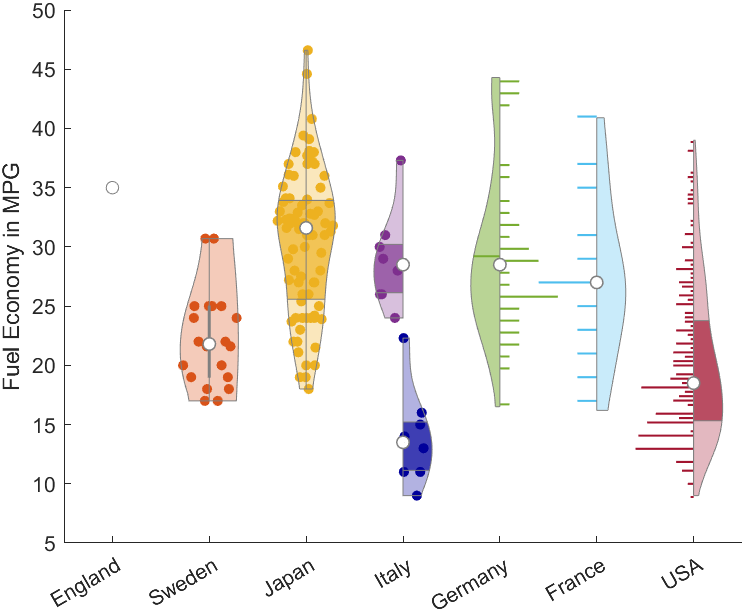
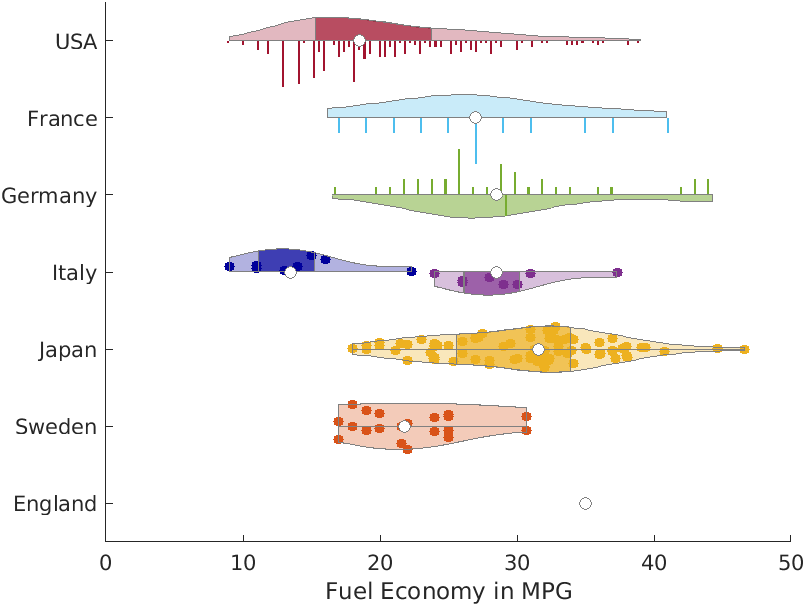
adjusted README and readme_figures. Small code snippet works now on its own.

diff --git a/readme_figures.m b/readme_figures.m
@@ -11,48 +11,53 @@ vs = violinplot(MPG, Origin);
 ylabel('Fuel Economy in MPG');
 xlim([0.5, 7.5]);
 
-set(gcf,"Units","pixels","Position",[100 100 560 420])
+set(gcf,'Units','pixels','Position',[100 100 560 420])
 
 % save results
-exportgraphics(gcf,"example.png")
+exportgraphics(gcf,'example.png')
 
 %% figure 2
 close all
 clear vs
 
-C = colormap("jet");
+C = colormap('jet');
 
 grouporder={'England','Sweden','Japan','Italy','Germany','France','USA'};
 
 % England (just a dot)
-vs = Violin({MPG(strcmp(Origin,'England'))},1);
+vs = Violin({MPG(strcmp(Origin,'England'))},1,'Orientation','horizontal');
 
 % Sweden (different Bandwidths)
 vs = Violin({MPG(strcmp(Origin,'Sweden'))},2,...
-    "HalfViolin","left",...
-    "Bandwidth",3);
+    'HalfViolin','left',...
+    'Bandwidth',3,...
+    'Orientation','horizontal');
 
 vs = Violin({MPG(strcmp(Origin,'Sweden'))},2,...
-    "HalfViolin","right",...
-    "Bandwidth",12);
+    'HalfViolin','right',...
+    'Bandwidth',12,...
+    'Orientation','horizontal');
 
 % Japan (show quartiles)
 vs = Violin({MPG(strcmp(Origin,'Japan'))},3,...
     'QuartileStyle','shadow',... % boxplot, none
-    'ShowBox',true);
+    'ShowBox',true,...
+    'Orientation','horizontal');
 
 % Italy left: standard
 vs = Violin({MPG(strcmp(Origin,'Italy'))},4,...
     'QuartileStyle','shadow',... % boxplot, none
     'ShowBox',true,...
-    "HalfViolin","left");
+    'HalfViolin','left',...
+    'Orientation','horizontal');
 
 % Italy right: change color, offset
 vs = Violin({MPG(strcmp(Origin,'Italy'))-15},4,...
     'QuartileStyle','shadow',... % boxplot, none
     'ShowBox',true,...
-    "HalfViolin","right",...
-    "ViolinColor",{C(7,:)});
+    'HalfViolin','right',...
+    'ViolinColor',{C(7,:)},...
+    'Orientation','horizontal');
 
 
 % Germany left: standard
@@ -60,37 +65,40 @@ vs = Violin({MPG(strcmp(Origin,'Germany'))},5,...
     'QuartileStyle','none',... % boxplot, none
     'DataStyle', 'none',... % scatter, histogram
     'ShowMean',true,...
-    "HalfViolin","left");
+    'HalfViolin','left',...
+    'Orientation','horizontal');
 
 % Germany histogram
 vs = Violin({MPG(strcmp(Origin,'Germany'))},5,...
     'QuartileStyle','none',... % boxplot, none
     'DataStyle', 'histogram',... % scatter, histogram
     'ShowMean',true,...
-    "HalfViolin","left");
+    'HalfViolin','left',...
+    'Orientation','horizontal');
 
 % France histogram
 vs = Violin({MPG(strcmp(Origin,'France'))},6,...
     'QuartileStyle','none',... % boxplot, none
     'DataStyle', 'histogram',... % scatter, histogram
     'ShowMean',false,...
-    "HalfViolin","right");
+    'HalfViolin','right',...
+    'Orientation','horizontal');
 
 % USA histogram and quartiles
 vs = Violin({MPG(strcmp(Origin,'USA'))},7,...
     'QuartileStyle','shadow',... % boxplot, none
     'DataStyle', 'histogram',... % scatter, histogram
     'ShowMean',false,...
-    "HalfViolin","right");
+    'HalfViolin','right',...
+    'Orientation','horizontal');
 
 % set correct labels
-set(gca,xticklabels=grouporder)
+set(gca,yticklabels=grouporder)
 
-ylabel('Fuel Economy in MPG');
-xlim([0.5, 7.5]);
-set(gca,"XTickLabelRotation",30)
+xlabel('Fuel Economy in MPG');
+ylim([0.5, 7.5]);
 
-set(gcf,"Units","pixels","Position",[200 200 560 420])
+set(gcf,'Units','pixels','Position',[200 200 560 420])
 
 % save results
-exportgraphics(gcf,"example2.png")
+exportgraphics(gcf,'example2.png')

diff --git a/README.md b/README.md
@@ -38,15 +38,21 @@ You can also play around with the different options, and tune your violin plots 
 
 ```matlab
 grouporder={'England','Sweden','Japan','Italy','Germany','France','USA'};
+color = jet(length(grouporder));
+pos = 3;
 vs = Violin({MPG(strcmp(Origin, grouporder{pos}))},...
-    position,...
+    pos,...
     'HalfViolin','right',...% left, full
     'QuartileStyle','shadow',... % boxplot, none
     'DataStyle', 'histogram',... % scatter, none
     'ShowNotches', false,...
     'ShowMean', false,...
     'ShowMedian', true,...
-    'ViolinColor', color);
+    'ViolinColor', {color(pos,:)},...
+    'Orientation', 'horizontal');
+ylim(pos + [-.5, 0.5])
+yticks(pos)
+yticklabels(grouporder{pos})
 ```
 ![example image2](example2.png)
 
